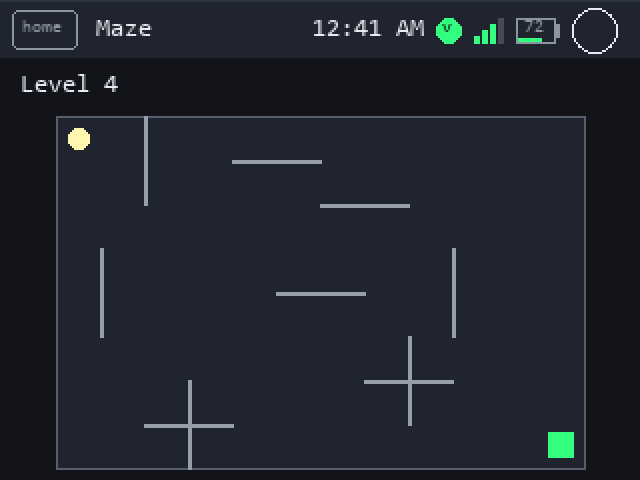
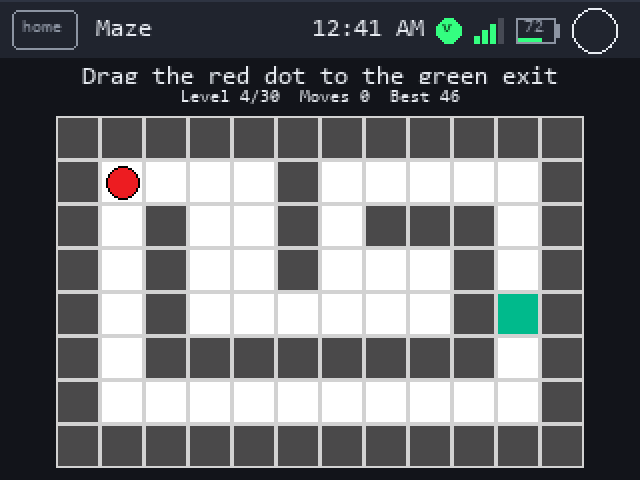
Redraw the Maze and Money mock-ups from the code they claim to show
Both were hand-approximated with magic numbers instead of the geometry the
games actually use, and both had drifted into showing something the firmware
has never drawn.

Money put five loose coins at y146 with no panel behind them. The answer
buttons start at y160, so the coins sat underneath the first row and lost
their labels to it -- while the whole band from y55 to y145 stayed empty.
That y146 is real, but it is trayRect(), the coin tray from the *Make* mode;
the screen depicted is Total mode, which draws drawCoinGroup(Rect{18,78,284,70})
and cannot collide with anything. The coins are also 24px across, not 34,
spaced 34px rather than 59, sit in a rounded surface panel, and are labelled
by centsText() -- "25c", not "25". Each denomination has its own mint colour
and the penny and the quarter take white ink. The option buttons are blue,
not panel grey.

Maze was wrong in concept rather than detail. MazeGame draws the board as
filled cells -- white path, dark wall, green exit, each cell outlined -- and
the mock-up drew ten thin wall segments over a dark board instead, several
of them crossing into plus shapes that no maze generator produces and no
MazeData level contains. It also drew the player cream, on a screen whose own
instruction reads "Drag the red dot to the green exit", and captioned itself
"Level 4" where the device shows a centred instruction plus a HUD line.

The grids are now parsed out of src/games/MazeData.cpp rather than invented,
[…]

diff --git a/tools/gen_screens.py b/tools/gen_screens.py
@@ -16,6 +16,7 @@ Output: docs/screens/*.png
 """
 from __future__ import annotations
 
+import re
 import sys
 from pathlib import Path
 
@@ -897,20 +898,55 @@ def counting():
     return im
 
 
+# MoneyGame::coinFill / coinText -- the mint colours, per denomination.
+COIN_FILL = {1: (184, 96, 52), 5: (160, 170, 176), 10: (210, 218, 224),
+             25: (128, 146, 166), 50: (222, 184, 82)}
+COIN_OUTLINE = (8, 8, 24)
+
+
+def cents_text(cents):
+    """MoneyGame::centsText -- '42c' under a dollar, '$1.25' at or above."""
+    return "%dc" % cents if cents < 100 else "$%d.%02d" % (cents // 100, cents % 100)
+
+
+def draw_coin(d, cx, cy, value):
+    """MoneyGame::drawCoin -- radius 12, denomination inside, white ink on the
+    penny and the quarter."""
+    d.ellipse([cx - 12, cy - 12, cx + 12, cy + 12],
+              fill=COIN_FILL[value], outline=COIN_OUTLINE)
+    label = cents_text(value)
+    d.text((cx - d.textlength(label, font=F1) / 2, cy - F1.size / 2 - 1), label,
+           font=F1, fill=WHITE if value in (1, 25) else (0, 0, 0))
+
+
 def money():
     im, d = blank(); topbar(d, "Money")
-    q = "How much is this?"
-    d.text((W / 2 - d.textlength(q, font=F2) / 2, 38), q, font=F2, fill=TEXT)
-    coins = [("25", (170, 175, 180)), ("10", (170, 175, 180)),
-             ("5", (170, 175, 180)), ("1", (190, 130, 90)), ("1", (190, 130, 90))]
-    for i, (v, col) in enumerate(coins):
-        x = 14 + i * 59
-        d.ellipse([x + 9, 146, x + 43, 180], fill=col, outline=(90, 90, 96))
-        d.text((x + 20, 156), v, font=F2, fill=(30, 30, 36))
+    # MoneyGame::render -- the score header, then the mode name, then the coin
+    # group panel, then the options. The coins live in a panel at y78..148 and
+    # the buttons start at y160; the old mock-up put loose coins at y146 with
+    # no panel, so they collided with the answers and lost their labels.
+    d.text((8, 35), "Level 3", font=F2, fill=TEXT)
+    d.text((8, 51), "Score 40", font=F1, fill=TEXT)
+    streak, best = "Streak 4", "Best 7"
+    d.text((W - 8 - d.textlength(streak, font=F2), 35), streak, font=F2, fill=TEXT)
+    d.text((W - 8 - d.textlength(best, font=F1), 51), best, font=F1, fill=TEXT)
+
+    q = "How much is this?"           # drawLabel(Rect{8,58,304,12}, muted, 1)
+    d.text((160 - d.textlength(q, font=F1) / 2, 64 - F1.size / 2 - 1), q,
+           font=F1, fill=MUTED)
+
+    px, py, pw, ph = 18, 78, 284, 70  # drawCoinGroup(Rect{18,78,284,70})
+    d.rounded_rectangle([px, py, px + pw - 1, py + ph - 1], 6,
+                        fill=SURFACE, outline=OUTLINE)
+    coins = [25, 10, 5, 1, 1]         # 42c, the highlighted answer
+    cols = pw // 34
+    for i, v in enumerate(coins):
+        draw_coin(d, px + 18 + (i % cols) * 34, py + 18 + (i // cols) * 30, v)
+
     for i, a in enumerate(["42c", "37c", "45c", "40c"]):
-        r = (18 + (i % 2) * 152, 160 + (i // 2) * 36, 132, 30)
+        r = (18 + (i % 2) * 152, 160 + (i // 2) * 36, 132, 30)   # optionRect
         button(d, r, a,
-               SUCCESS if a == "42c" else PANEL, (0, 0, 0) if a == "42c" else TEXT)
+               SUCCESS if a == "42c" else BLUE, (0, 0, 0) if a == "42c" else TEXT)
     return im
 
 
@@ -927,23 +963,55 @@ def fractions():
     return im
 
 
+def maze_levels():
+    """The real maze grids, read from src/games/MazeData.cpp.
+
+    Transcribing a level by hand is how a mock-up ends up showing a maze the
+    firmware has never drawn. The old version invented ten floating wall
+    segments that crossed each other into plus shapes -- a shape no MazeData
+    level contains, and not how the game draws walls in the first place.
+    """
+    text = (ROOT / "src" / "games" / "MazeData.cpp").read_text(encoding="utf-8")
+    body = text[text.index("MAZES[][ROWS]"):]
+    if "FALLBACK_MAZE" in body:
+        body = body[:body.index("FALLBACK_MAZE")]
+    rows = re.findall(r'"([#SE.]+)"', body)
+    return [rows[i:i + 8] for i in range(0, len(rows) - 7, 8)]
+
+
 def maze():
     im, d = blank(); topbar(d, "Maze")
-    d.text((10, 36), "Level 4", font=F2, fill=TEXT)
+    # MazeGame draws the board as filled CELLS -- white path, dark wall, green
+    # exit, each cell outlined -- not as thin wall segments over a dark board.
     COLS, ROWS, CELL = 12, 8, 22
-    mx, my = (W - COLS * CELL) // 2, 58
-    d.rectangle([mx, my, mx + COLS * CELL, my + ROWS * CELL], fill=SURFACE, outline=OUTLINE)
-    walls = [(0, 2, 'v'), (1, 4, 'h'), (3, 1, 'v'), (4, 5, 'h'), (6, 3, 'v'),
-             (2, 6, 'h'), (5, 8, 'v'), (7, 2, 'h'), (3, 9, 'v'), (6, 7, 'h')]
-    for r, c, o in walls:
-        x, y = mx + c * CELL, my + r * CELL
-        if o == 'v':
-            d.line([(x, y), (x, y + CELL * 2)], fill=(150, 158, 172), width=2)
-        else:
-            d.line([(x, y), (x + CELL * 2, y)], fill=(150, 158, 172), width=2)
-    d.ellipse([mx + 6, my + 6, mx + 16, my + 16], fill=(255, 246, 178))
-    d.rectangle([mx + COLS * CELL - 18, my + ROWS * CELL - 18,
-                 mx + COLS * CELL - 6, my + ROWS * CELL - 6], fill=SUCCESS)
+    MX, MY = (W - COLS * CELL) // 2, 30 + 28      # MAZE_X, TOP_BAR_HEIGHT + 28
+    WALL_C, PATH_C = (74, 73, 74), (255, 255, 255)
+    EXIT_C, PLAYER_C, GRID_C = (0, 186, 140), (237, 28, 33), (210, 210, 210)
+
+    label = "Drag the red dot to the green exit"   # drawLabel(Rect{12,32,296,16}, 2)
+    d.text((12 + 296 / 2 - d.textlength(label, font=F2) / 2, 40 - F2.size / 2 - 1),
+           label, font=F2, fill=TEXT)
+    # drawHud() repaints this band *after* the label, so the label's lower rows
+    # are erased on the device. Mirrored here rather than quietly tidied up --
+    # a mock-up that looks better than the hardware is not evidence.
+    d.rectangle([0, 42, W - 1, 59], fill=BG)
+    hud = "Level 4/%d  Moves 0  Best 46" % len(maze_levels())
+    d.text((W / 2 - d.textlength(hud, font=F1) / 2, 50 - F1.size / 2 - 1), hud,
+           font=F1, fill=TEXT)
+
+    levels = maze_levels()
+    grid = levels[3]
+    for r, row in enumerate(grid):
+        for c, cell in enumerate(row):
+            x, y = MX + c * CELL, MY + r * CELL
+            fill = WALL_C if cell == "#" else EXIT_C if cell == "E" else PATH_C
+            d.rectangle([x, y, x + CELL - 1, y + CELL - 1], fill=fill, outline=GRID_C)
+
+    for r, row in enumerate(grid):                 # drawPlayer, radius 8, at S
+        if "S" in row:
+            c = row.index("S")
+            px, py = MX + c * CELL + CELL // 2, MY + r * CELL + CELL // 2
+            d.ellipse([px - 8, py - 8, px + 8, py + 8], fill=PLAYER_C, outline=(0, 0, 0))
     return im
 
 
